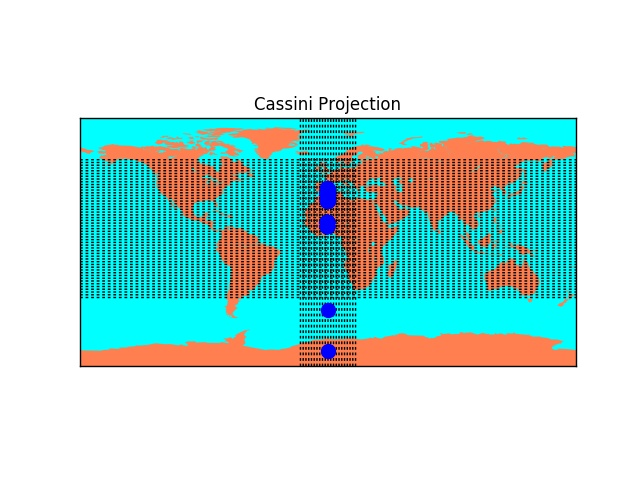
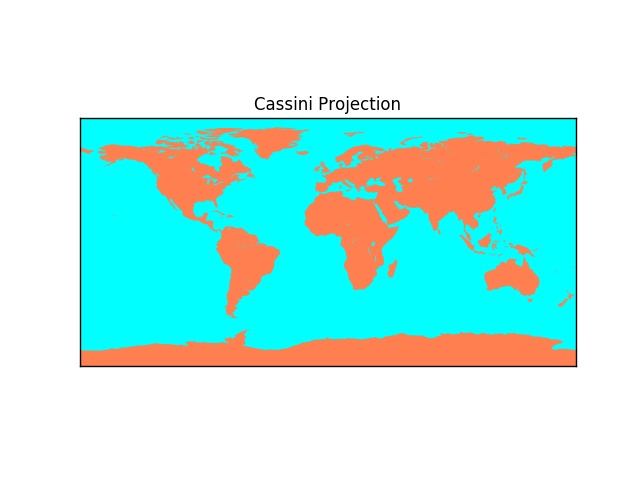
Removed parallels

Changed region(s): [[0.125, 0.25, 0.9062, 0.7812]]

diff --git a/CreateMap.py b/CreateMap.py
@@ -18,8 +18,8 @@ m = Basemap()
 m.fillcontinents(color='coral',lake_color='aqua')
 
 # draw parallels and meridians.
-m.drawparallels(np.arange(-40,61.,2.))
-m.drawmeridians(np.arange(-20.,21.,2.))
+#m.drawparallels(np.arange(-40,61.,2.))
+#m.drawmeridians(np.arange(-20.,21.,2.))
 m.drawmapboundary(fill_color='aqua')
 
 for i in range(0,100):
@@ -29,7 +29,7 @@ for i in range(0,100):
  lat = data[1]
  print(lon)
  x,y = m(lon,lat)
- m.plot(x,y,'bo', ms = 0.1)
+ m.plot(x,y,'bo', ms = 0.001)
 
 plt.title("Cassini Projection")
 plt.savefig("Mymap.jpg")
